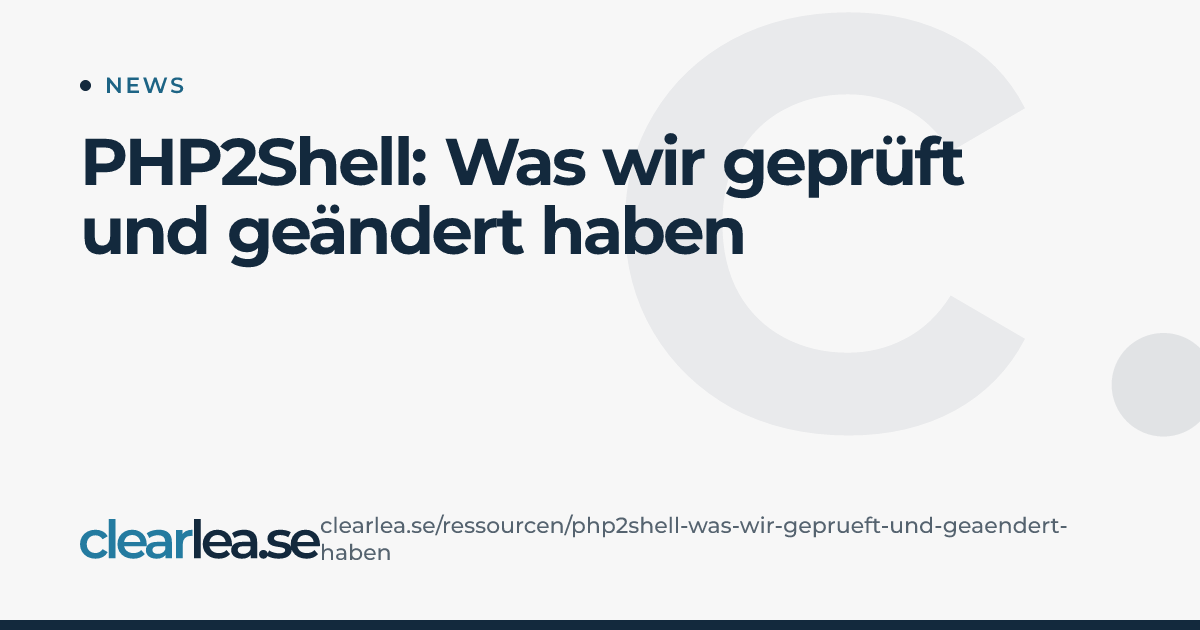
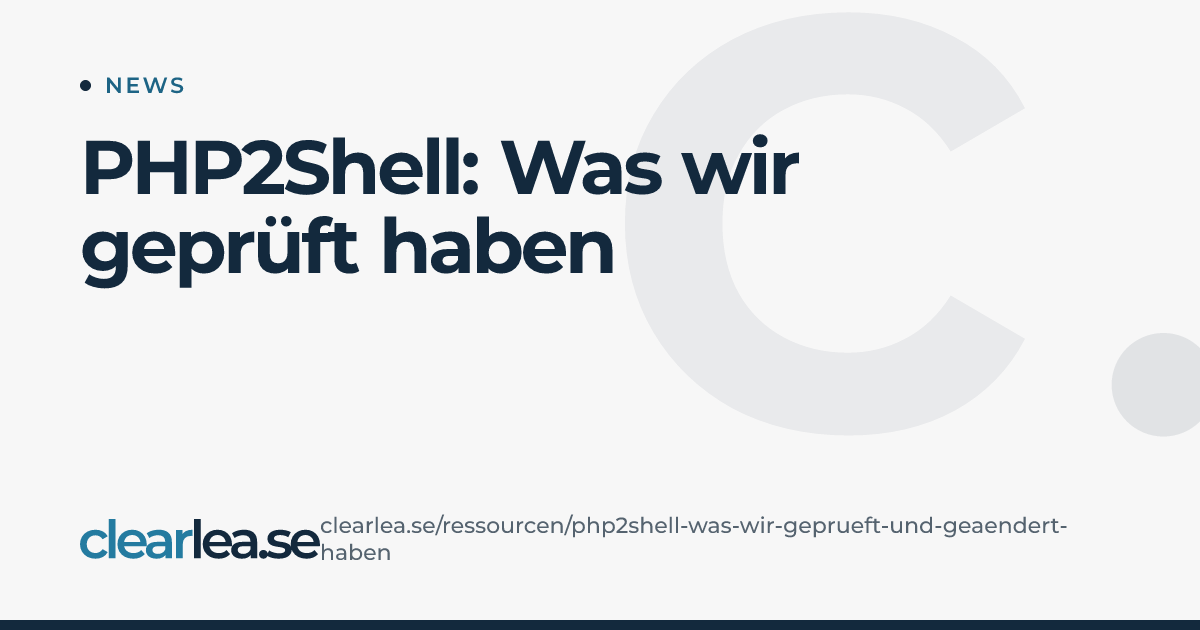
content: PHP2Shell post without "Was wir ändern", security-first check wording
Drop the "Was wir ändern" section in DE and EN, reframe the check as
standard practice instead of "trotzdem", and align title and teaser.
Slug stays unchanged so the live URL keeps working.

Changed region(s): [[0.0617, 0.2111, 0.8017, 0.4524]]

diff --git a/src/content/ressourcen/de/10-php2shell-was-wir-geprueft-und-geaendert-haben.md b/src/content/ressourcen/de/10-php2shell-was-wir-geprueft-und-geaendert-haben.md
@@ -1,7 +1,7 @@
 ---
 cat: "News"
-title: "PHP2Shell: Was wir geprüft und geändert haben"
-text: "clearlea.se nutzt kein PHP. Trotzdem haben wir unsere gesamte Infrastruktur geprüft und sichern sie weiter ab."
+title: "PHP2Shell: Was wir geprüft haben"
+text: "clearlea.se nutzt kein PHP. Weil wir Sicherheit ernst nehmen, haben wir unsere gesamte Infrastruktur geprüft."
 neu: true
 href: "Trust-Center.dc.html"
 date: "2026-10-22"
@@ -17,9 +17,9 @@ PHP läuft auf rund 69 % aller Websites, deren Serversprache bekannt ist. Hier l
 
 Die Anwendung und ihre Softwarekomponenten enthalten kein PHP. Das haben wir auf Architekturebene und an den tatsächlich ausgerollten Paketen geprüft. Die Kundenumgebungen sind nicht betroffen: Die verwalteten Cloud-Dienste darunter betreibt und aktualisiert der Cloud-Anbieter.
 
-## Wir haben trotzdem alles geprüft
+## Wir prüfen gründlich
 
-Kein PHP im Produkt heißt für uns nicht: nicht hinsehen. Wir haben unsere gesamte Infrastruktur geprüft, Umgebung für Umgebung: Container und Prozesse, Anmeldungen und Schlüssel, geänderte Systemdienste, Dateien und gespeicherte Daten, Protokolle und Firewall.
+Bei einer kritischen Lücke verlassen wir uns nicht auf Annahmen. Wir haben unsere gesamte Infrastruktur geprüft, Umgebung für Umgebung: Container und Prozesse, Anmeldungen und Schlüssel, geänderte Systemdienste, Dateien und gespeicherte Daten, Protokolle und Firewall.
 
 **Ergebnis:** kein Hinweis auf eine Kompromittierung.
 
@@ -36,14 +36,6 @@ Sicherheit beginnt bei uns nicht mit dem nächsten Patch. Diese Schutzschichten 
 - **Rechenzentren in Deutschland.** ISO-27001-zertifiziert.
 
 Für Ihre IT-Sicherheit heißt das: Eine Lücke in einer einzelnen Komponente öffnet nicht automatisch den Zugang zu Ihren Daten.
-
-## Was wir ändern
-
-- Wir sichern Admin-Zugänge zusätzlich ab.
-- Wir schränken Server-Zugänge weiter ein.
-- Wir protokollieren Webzugriffe und bewahren die Protokolle auf.
-- Wir richten regelmäßige Backups ein, als Vergleichsstand für künftige Prüfungen.
-- Wir prüfen, ob Passwörter und Schlüssel der Produktion neu vergeben werden müssen.
 
 Fragen zu unserer Sicherheit beantworten wir gern unter [hello@clearlea.se](mailto:hello@clearlea.se).
 

diff --git a/src/content/ressourcen/en/10-php2shell-what-we-checked-and-changed.md b/src/content/ressourcen/en/10-php2shell-what-we-checked-and-changed.md
@@ -1,7 +1,7 @@
 ---
 cat: "News"
-title: "PHP2Shell: what we checked and changed"
-text: "clearlea.se uses no PHP. We checked our entire infrastructure anyway and are tightening it further."
+title: "PHP2Shell: what we checked"
+text: "clearlea.se uses no PHP. Because we take security seriously, we checked our entire infrastructure."
 neu: true
 href: "Trust-Center.dc.html"
 date: "2026-10-22"
@@ -17,9 +17,9 @@ PHP runs on about 69% of all websites whose server language is known. Here is wh
 
 The application and its software components contain no PHP. We checked this at architecture level and against the packages actually deployed. Customer environments are not affected: the cloud provider runs and updates the managed cloud services underneath.
 
-## We checked everything anyway
+## We check thoroughly
 
-No PHP in the product does not mean we stop looking. We checked our entire infrastructure, environment by environment: containers and processes, logins and keys, changed system services, files and stored data, logs and firewall.
+When a critical vulnerability appears, we do not rely on assumptions. We checked our entire infrastructure, environment by environment: containers and processes, logins and keys, changed system services, files and stored data, logs and firewall.
 
 **Result:** no sign of compromise.
 
@@ -36,14 +36,6 @@ For us, security does not start with the next patch. These layers of protection 
 - **Data centres in Germany.** ISO 27001-certified.
 
 For your IT security, this means a gap in a single component does not automatically open access to your data.
-
-## What we are changing
-
-- We are adding further protection to admin access.
-- We are restricting server access further.
-- We log web access and keep the logs.
-- We are setting up regular backups as a baseline for future checks.
-- We are checking whether production passwords and keys need to be replaced.
 
 Questions about our security? Write to [hello@clearlea.se](mailto:hello@clearlea.se).
 
